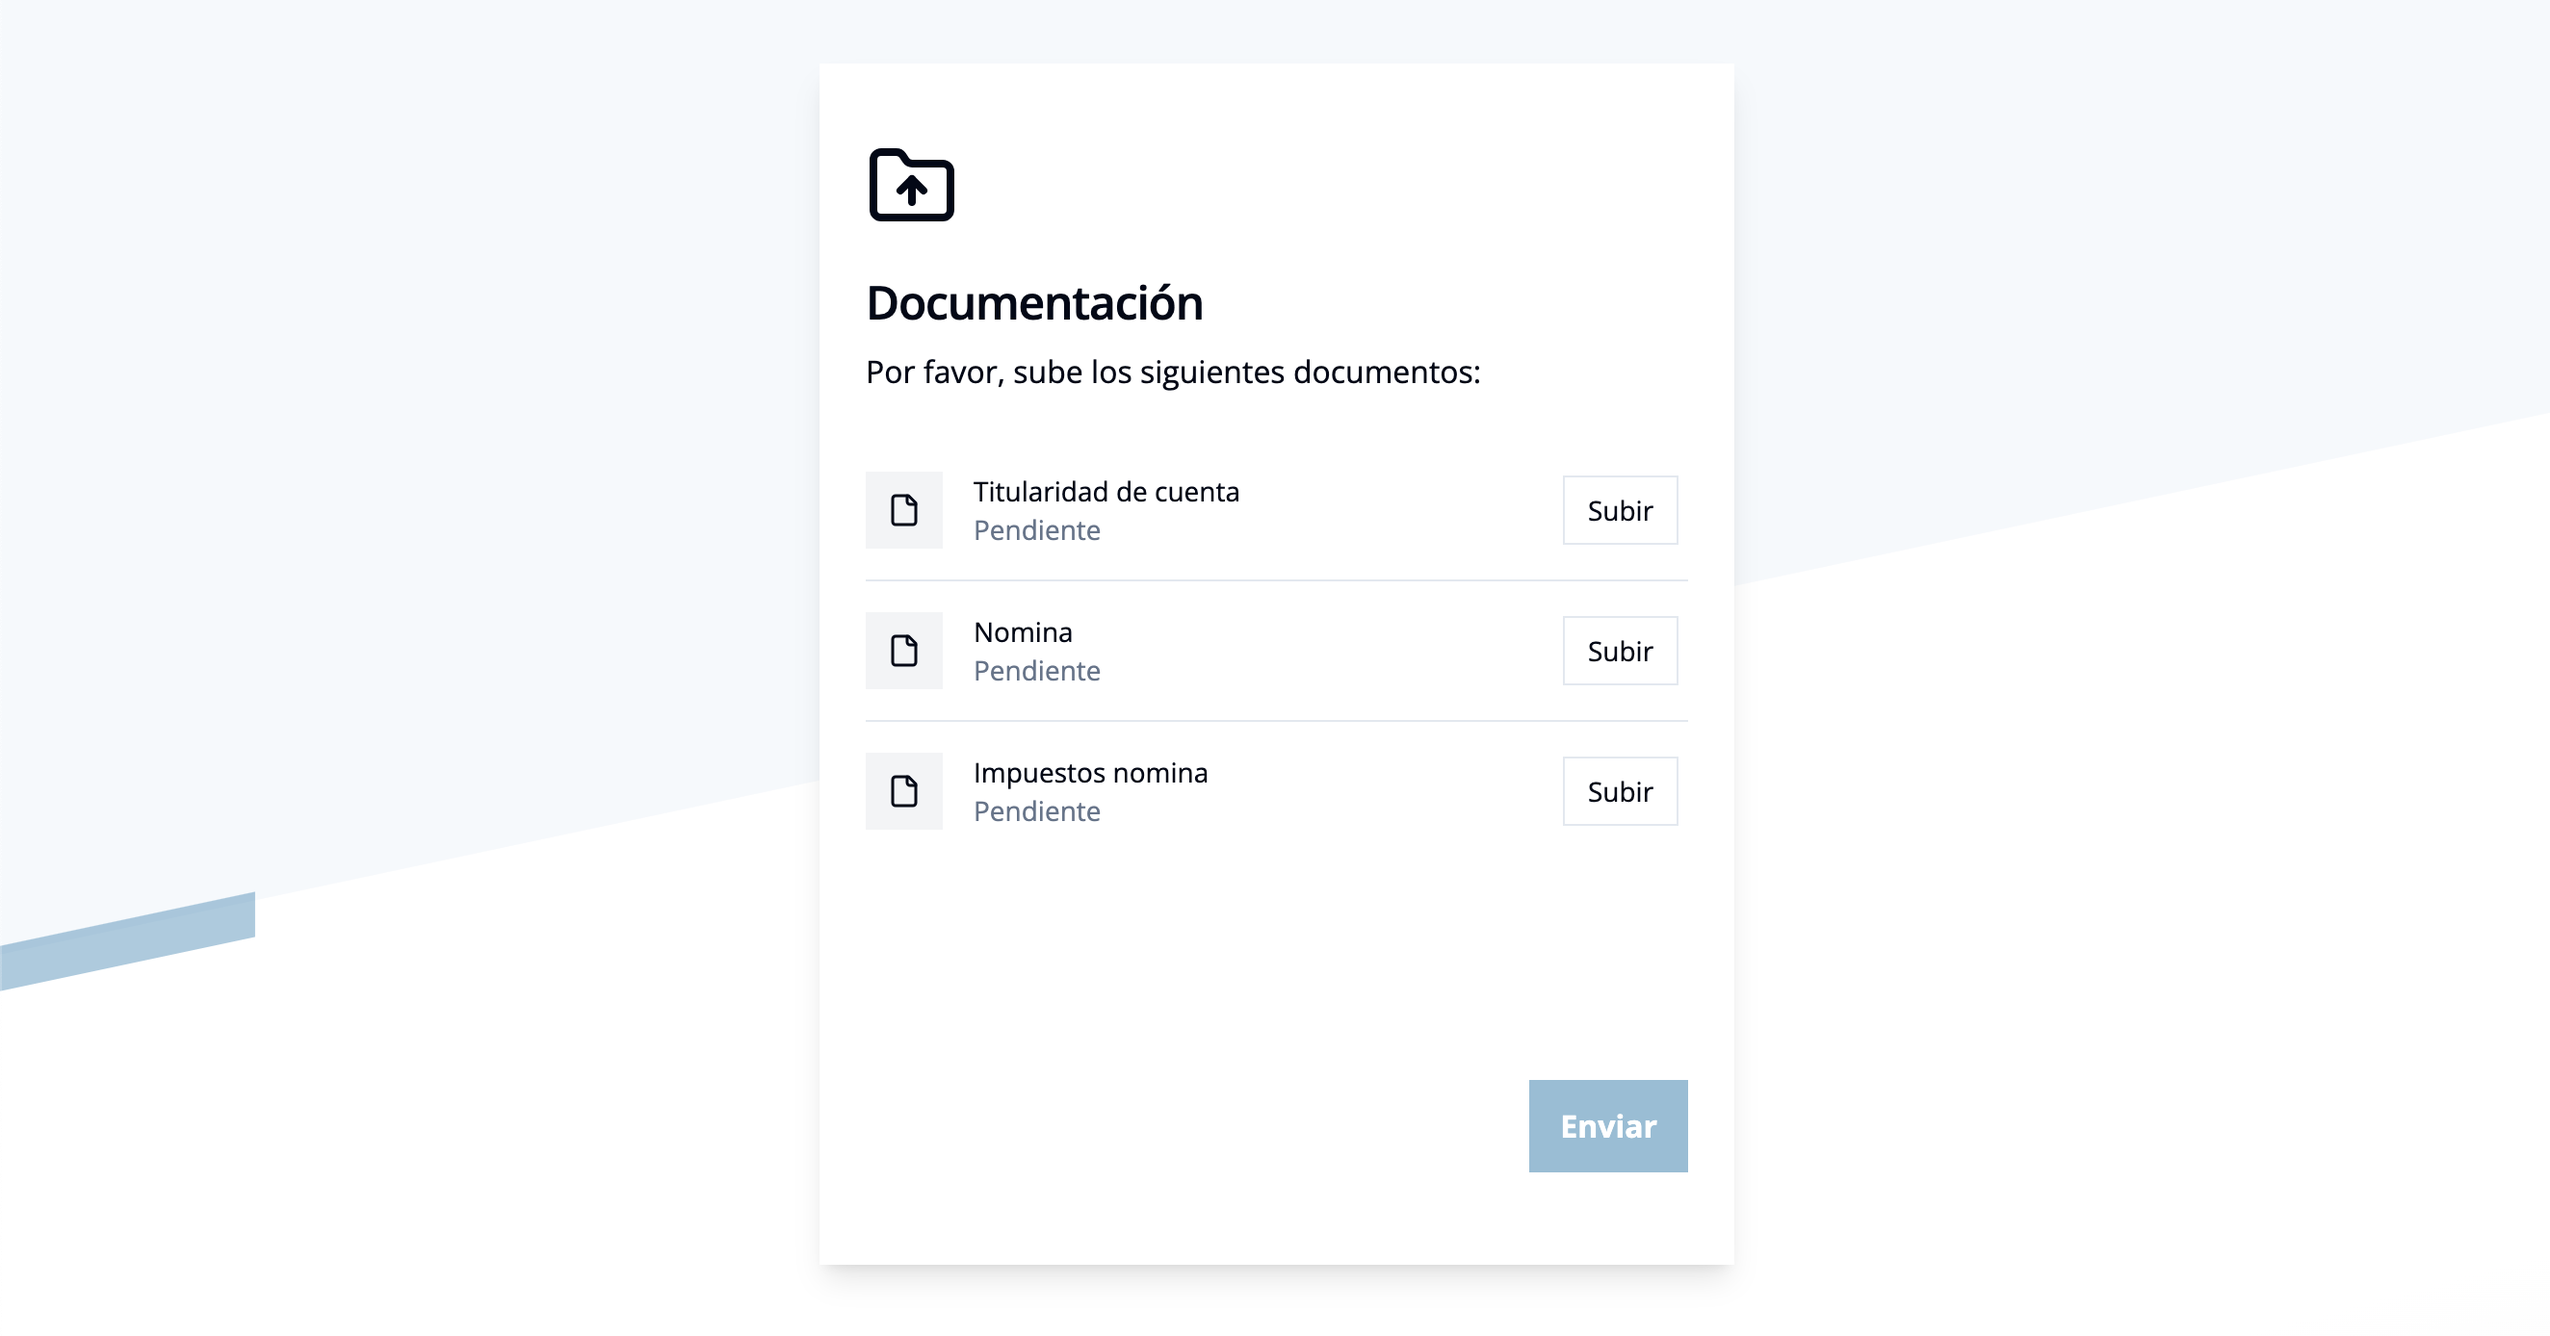
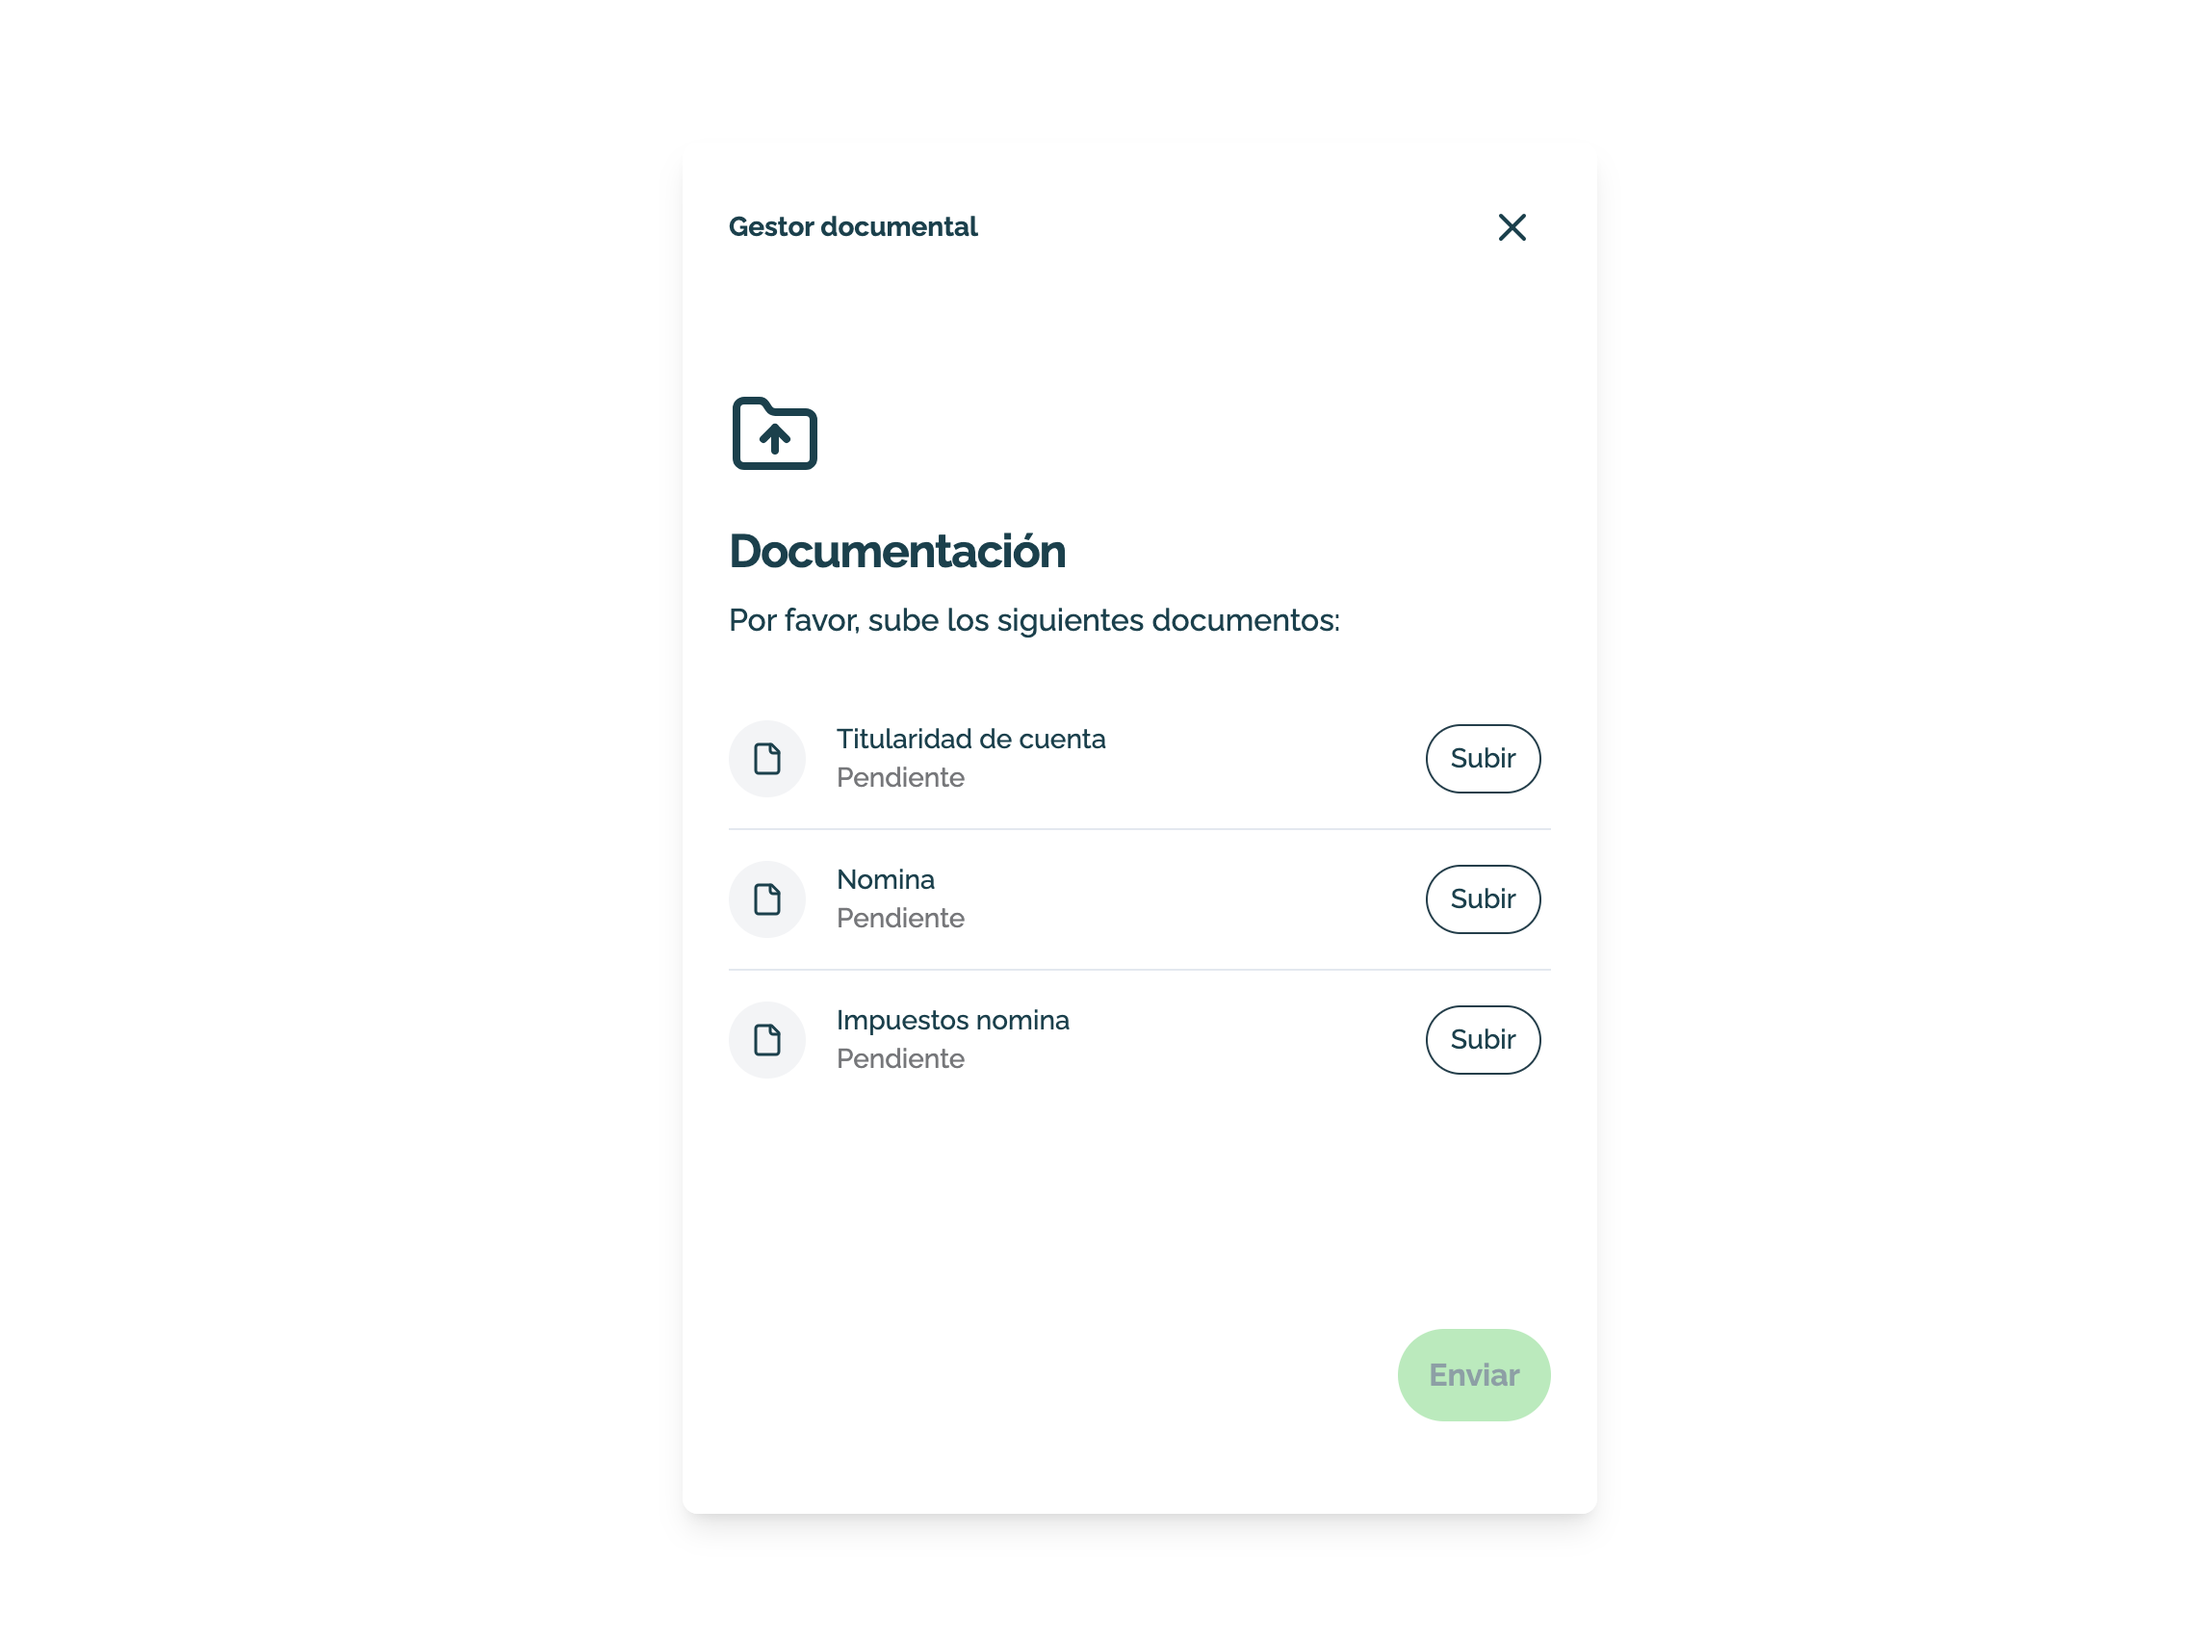
refactor

diff --git a/05-using_documentation/public/index.html b/05-using_documentation/public/index.html
@@ -33,7 +33,7 @@
         // Configure component
         const documentation = nemuru.documentation({
           clientSecret,
-          options: { locale: 'es', mode: 'embedded' },
+          options: { locale: 'es', mode: 'dialog_transparent' },
           onLoaded: () => console.log("onLoaded"),
           onComplete: () => console.log("onComplete"),
           onClose: () => console.log("onClose"),

diff --git a/05-using_documentation/public/style.css b/05-using_documentation/public/style.css
@@ -12,8 +12,3 @@ body {
   -webkit-font-smoothing: antialiased;
   -moz-osx-font-smoothing: grayscale;
 }
-
-#nemuru-documentation {
-  height: 800px;
-  width: 400px;
-}

diff --git a/04-show_payment_method_conditions/README.md b/04-show_payment_method_conditions/README.md
@@ -1,4 +1,4 @@
-# Payment method
+# Show payment method conditions
 
 This example demonstrates how to display the payment method conditions using the `paymentMethods` and `paymentMethod` functions. This example uses the Nemuru checkout.js SDK to retrieve the available payment methods (`.paymentMethods`) and display each payment method conditions (`.paymentMethod`).
 
